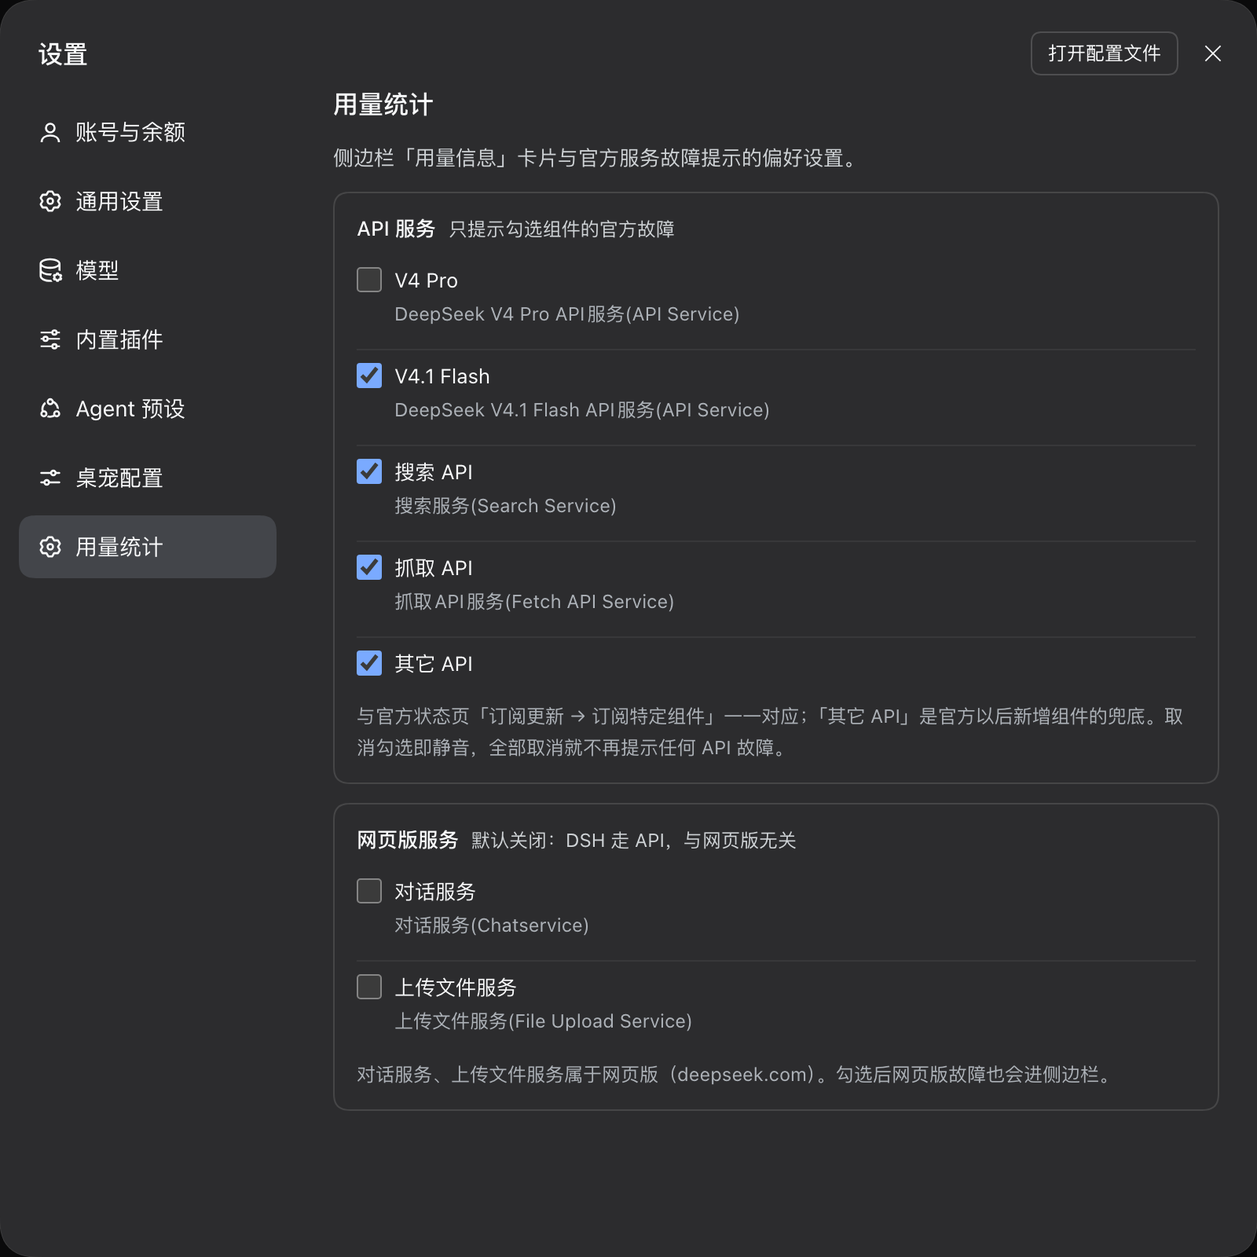
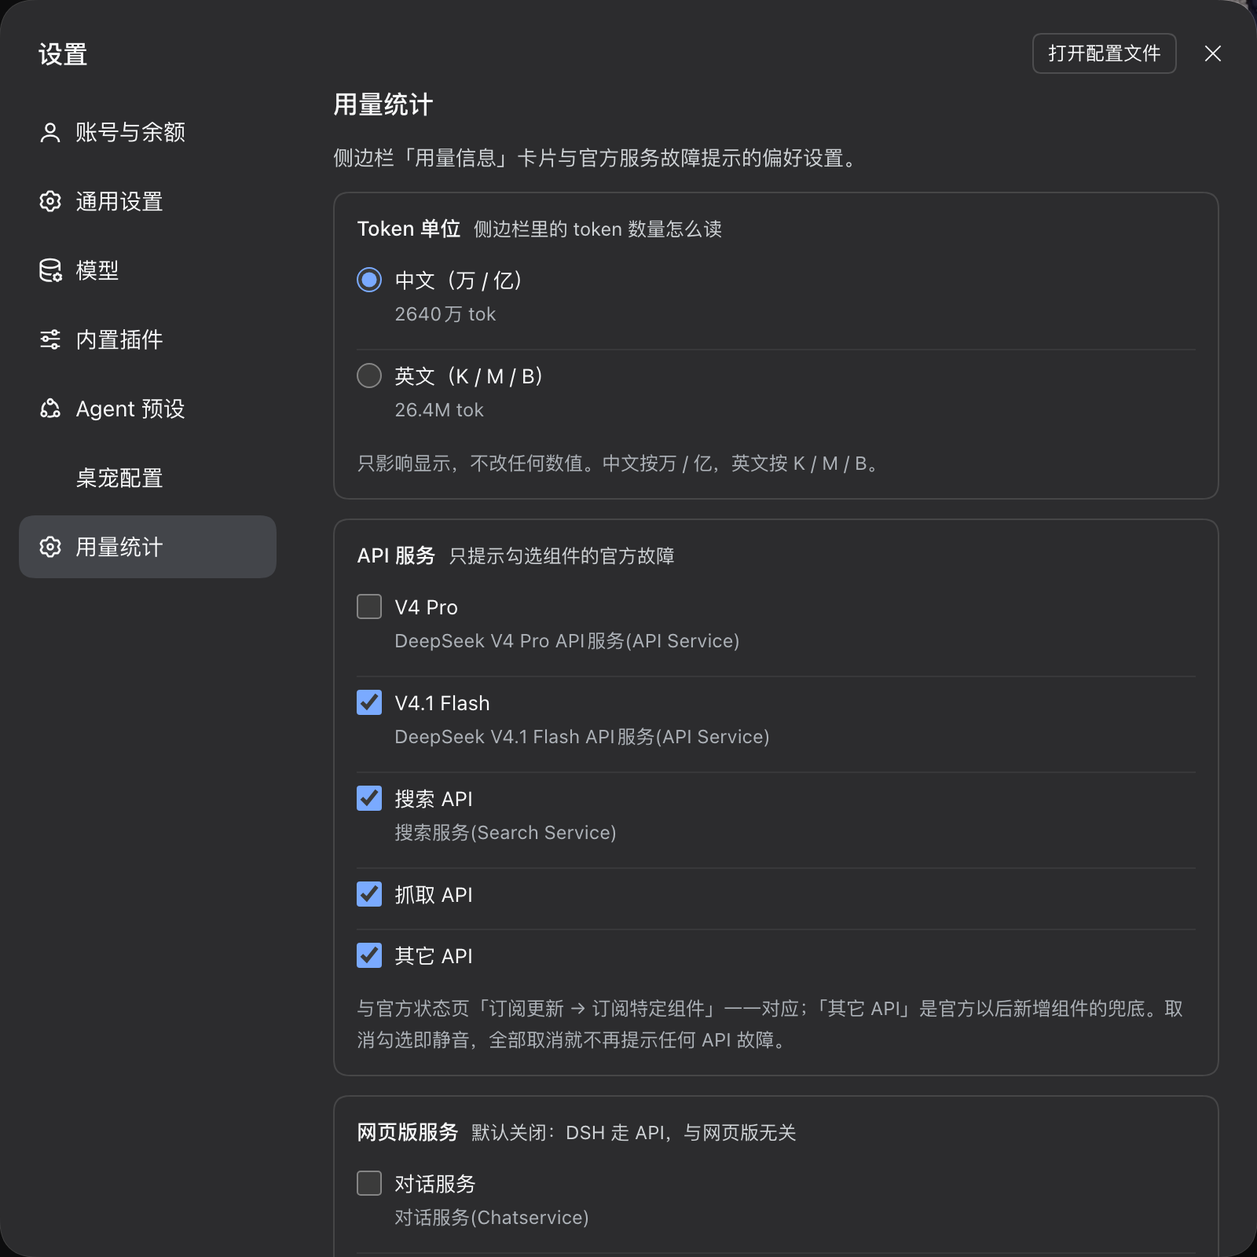
sync: mirror private repo @ d2c5e49

diff --git a/client.js b/client.js
@@ -17,6 +17,14 @@ if (typeof window !== 'undefined' && window.__ModuleLoader__) {
     const UPDATE_BADGE_TEXT = '有新版'
     const UPDATE_BADGE_CLASS = 'dshus-upd-badge'
     const ALERTS_ROUTE = '/api/usage-stats/alerts'
+    const DISPLAY_ROUTE = '/api/usage-stats/display'
+    // 设置页把单位改了 → 侧边栏立刻换，不等下一轮 60s 刷新
+    const DISPLAY_CHANGED_EVENT = 'dshus:display-changed'
+    // 两个单位各自的写法（hint 里用同一个数举例：2640万 = 26.4M）
+    const TOKEN_UNIT_OPTIONS = [
+      { key: 'zh', label: '中文（万 / 亿）', sample: '2640万 tok' },
+      { key: 'en', label: '英文（K / M / B）', sample: '26.4M tok' },
+    ]
     // host 侧还没重启（客户端热更新先到）时 /alerts 会 404 —— 这时列出官方组件但禁用，
     // 让用户看到「重启 dsh web 后生效」，而不是一句莫名的「读取失败」。
     // 顺序与官方「订阅特定组件」一致（api 组在前，网页版在后）。
@@ -32,12 +40,25 @@ if (typeof window !== 'undefined' && window.__ModuleLoader__) {
     // 设置页存完档发这个事件：侧边栏立刻重拉一次状态，不用等下一轮 5 分钟轮询
     const ALERTS_CHANGED_EVENT = 'dshus:alerts-changed'
 
-    function formatCompactTokens(value) {
+    // --- token 数量格式化（回归测试按这两个标记切片，别删这两行注释）------------
+    const DEFAULT_TOKEN_UNIT = 'en' // 老行为：K / M / B
+    // 单位跟设置走（设置 → 用量统计 → Token 单位）：
+    //   英文：1.2K / 26.4M / 1.23B（默认，老行为）
+    //   中文：1.2万 / 2640万 / 1.23亿
+    // 缩写的档位与小数位两边对齐：万以下不缩写；1 万–10 万留 1 位小数，再往上不留
+    // （26.4M = 2640万，四个字读完；英文的 M 段同样只到十位数才留 2 位）。
+    function formatCompactTokens(value, unit = DEFAULT_TOKEN_UNIT) {
+      if (unit === 'zh') {
+        if (value < 10_000) return String(Math.round(value))
+        if (value < 100_000_000) return `${(value / 10_000).toFixed(value < 100_000 ? 1 : 0)}万`
+        return `${(value / 100_000_000).toFixed(2)}亿`
+      }
       if (value < 1_000) return String(Math.round(value))
       if (value < 1_000_000) return `${(value / 1_000).toFixed(value < 10_000 ? 1 : 0)}K`
       if (value < 1_000_000_000) return `${(value / 1_000_000).toFixed(value < 10_000_000 ? 2 : 1)}M`
       return `${(value / 1_000_000_000).toFixed(2)}B`
     }
+    // --- token 数量格式化结束 ---------------------------------------------------
 
     // 与平台页一致：金额去尾（截断）到 2 位小数，而非四舍五入——避免"多 0.01"
     function truncate2(value) {
@@ -211,6 +232,10 @@ if (typeof window !== 'undefined' && window.__ModuleLoader__) {
           display: flex; align-items: center; justify-content: center; padding: 6px 0;
           font-size: 10px; font-variant-numeric: tabular-nums; color: var(--dsw-alias-label-secondary);
           text-decoration: none;
+          /* 收起态只有 35px 宽：中文「4675万」不能在数字和「万」之间断开，否则
+             「Σ / 4675 / 万」竖成三行；keep-all 只禁止这种 CJK 断行，Σ 后的空格仍可断，
+             于是稳定成两行（和英文「Σ / 46.8M」一致）。 */
+          word-break: keep-all;
         }
         /* 收起态有故障：整项从 Σ 摘要换成图标（tooltip 带完整文案） */
         .dshus-rail-alert { border-radius: 4px; padding: 4px 0; font-size: 12px; }
@@ -239,7 +264,8 @@ if (typeof window !== 'undefined' && window.__ModuleLoader__) {
         .dshus-set-carddesc { color: var(--dsw-alias-label-secondary); font-size: 12px; font-weight: 400; }
         .dshus-set-row { display: flex; align-items: flex-start; gap: 8px; padding: 6px 0; cursor: pointer; }
         .dshus-set-row + .dshus-set-row { border-top: 1px solid var(--dsw-alias-border-l1); }
-        .dshus-set-row input[type="checkbox"] { flex: none; width: 16px; height: 16px; margin: 2px 0 0; accent-color: var(--dsw-alias-state-business-primary); cursor: pointer; }
+        .dshus-set-row input[type="checkbox"],
+        .dshus-set-row input[type="radio"] { flex: none; width: 16px; height: 16px; margin: 2px 0 0; accent-color: var(--dsw-alias-state-business-primary); cursor: pointer; }
         .dshus-set-body { display: flex; flex-direction: column; gap: 2px; min-width: 0; }
         .dshus-set-label { font-size: 13px; }
         .dshus-set-hint { color: var(--dsw-alias-label-tertiary); font-size: 12px; overflow: hidden; text-overflow: ellipsis; white-space: nowrap; }
@@ -324,6 +350,25 @@ if (typeof window !== 'undefined' && window.__ModuleLoader__) {
           }
         }, [])
 
+        // token 单位：设置页写 host（~/.dsh/dsh-usage-stats.settings.json 的 display.tokenUnit），
+        // 这里读一次、跟着 DISPLAY_CHANGED_EVENT 换。读不到就按默认英文——与老版本显示一致。
+        const [tokenUnit, setTokenUnit] = React.useState(DEFAULT_TOKEN_UNIT)
+        React.useEffect(() => {
+          let alive = true
+          const load = () => {
+            fetch(DISPLAY_ROUTE, { headers: { Accept: 'application/json' } })
+              .then((response) => (response.ok ? response.json() : null))
+              .then((payload) => {
+                if (!alive || payload === null || typeof payload !== 'object') return
+                setTokenUnit(payload.tokenUnit === 'zh' ? 'zh' : DEFAULT_TOKEN_UNIT)
+              })
+              .catch(() => { /* 读不到就保持默认，不打扰 */ })
+          }
+          load()
+          window.addEventListener(DISPLAY_CHANGED_EVENT, load)
+          return () => { alive = false; window.removeEventListener(DISPLAY_CHANGED_EVENT, load) }
+        }, [])
+
         // severity 只认 error，其余（含字段缺失）一律按 warn 渲染，避免出现没样式的条
         const alertSeverity = alert === null ? null : (alert.severity === 'error' ? 'error' : 'warn')
         const alertIcon = alert === null ? '' : (alertSeverity === 'error' ? '⛔' : '⚠')
@@ -391,11 +436,11 @@ if (typeof window !== 'undefined' && window.__ModuleLoader__) {
 
         const todayLine = React.createElement('div', { className: 'dshus-row' },
           React.createElement('span', { className: 'dshus-label' }, '今日'),
-          React.createElement('span', { className: 'dshus-tok' }, `${formatCompactTokens(data.today.tokens)} tok`),
+          React.createElement('span', { className: 'dshus-tok' }, `${formatCompactTokens(data.today.tokens, tokenUnit)} tok`),
           React.createElement('span', { className: 'dshus-cost' }, formatMoney(data.today.cost, data.currency)))
         const monthLine = React.createElement('div', { className: 'dshus-row' },
           React.createElement('span', { className: 'dshus-label' }, '本月'),
-          React.createElement('span', { className: 'dshus-tok' }, `${formatCompactTokens(data.month.tokens)} tok`),
+          React.createElement('span', { className: 'dshus-tok' }, `${formatCompactTokens(data.month.tokens, tokenUnit)} tok`),
           React.createElement('span', { className: 'dshus-cost' }, formatMoney(data.month.cost, data.currency)))
 
         if (wide) {
@@ -404,8 +449,8 @@ if (typeof window !== 'undefined' && window.__ModuleLoader__) {
         if (railAlert !== null) return railAlert
         return React.createElement('div', {
           className: 'dshus-rail',
-          title: `今日 ${formatCompactTokens(data.today.tokens)} tok · ${formatMoney(data.today.cost, data.currency)}，本月 ${formatCompactTokens(data.month.tokens)} tok`,
-        }, `Σ ${formatCompactTokens(data.today.tokens)}`)
+          title: `今日 ${formatCompactTokens(data.today.tokens, tokenUnit)} tok · ${formatMoney(data.today.cost, data.currency)}，本月 ${formatCompactTokens(data.month.tokens, tokenUnit)} tok`,
+        }, `Σ ${formatCompactTokens(data.today.tokens, tokenUnit)}`)
       }
 
       // ---- 设置页：API 告警组件 ----
@@ -445,6 +490,48 @@ if (typeof window !== 'undefined' && window.__ModuleLoader__) {
           return () => { alive = false }
         }, [])
 
+        // Token 单位：单独一条 /display 路由。host 还是旧进程时它会 404 ——
+        // 与 /alerts 的降级互不牵连（告警设置照常能改），这一项先禁用并说明。
+        const [unit, setUnit] = React.useState({ phase: 'loading', value: DEFAULT_TOKEN_UNIT, error: null })
+        React.useEffect(() => {
+          let alive = true
+          fetch(DISPLAY_ROUTE, { headers: { Accept: 'application/json' } })
+            .then((response) => {
+              if (response.status === 404) return { ok: 'restart-required' }
+              return response.ok ? response.json() : Promise.reject(new Error(String(response.status)))
+            })
+            .then((payload) => {
+              if (!alive) return
+              if (payload && payload.ok === 'restart-required') {
+                setUnit({ phase: 'skew', value: DEFAULT_TOKEN_UNIT, error: null })
+                return
+              }
+              if (!payload || payload.ok !== true) throw new Error('invalid display response')
+              setUnit({ phase: 'ready', value: payload.tokenUnit === 'zh' ? 'zh' : DEFAULT_TOKEN_UNIT, error: null })
+            })
+            .catch(() => { if (alive) setUnit({ phase: 'error', value: DEFAULT_TOKEN_UNIT, error: '读取 Token 单位失败，请稍后重试' }) })
+          return () => { alive = false }
+        }, [])
+
+        const saveUnit = (next) => {
+          // 先本地翻牌（单选框立刻响应），失败再回滚
+          const previous = unit.value
+          setUnit({ phase: 'ready', value: next, error: null })
+          fetch(DISPLAY_ROUTE, {
+            method: 'POST',
+            headers: { 'Content-Type': 'application/json', Accept: 'application/json' },
+            body: JSON.stringify({ tokenUnit: next }),
+          })
+            .then((response) => (response.ok ? response.json() : Promise.reject(new Error(String(response.status)))))
+            .then((payload) => {
+              if (!payload || payload.ok !== true) throw new Error('invalid display response')
+              setUnit({ phase: 'ready', value: payload.tokenUnit === 'zh' ? 'zh' : DEFAULT_TOKEN_UNIT, error: null })
+              // 侧边栏立刻换单位，不等下一轮刷新
+              window.dispatchEvent(new CustomEvent(DISPLAY_CHANGED_EVENT))
+            })
+            .catch(() => setUnit({ phase: 'ready', value: previous, error: '保存失败（设置未生效），请稍后重试' }))
+        }
+
         const save = (nextMuted) => {
           // 先本地翻牌（勾选框立刻响应），失败再回滚提示
           setState((prev) => ({ ...prev, muted: nextMuted, error: null }))
@@ -473,6 +560,30 @@ if (typeof window !== 'undefined' && window.__ModuleLoader__) {
         const children = [React.createElement('h2', { className: 'dshus-set-title', key: 'title' }, '用量统计')]
         children.push(React.createElement('p', { className: 'dshus-set-intro', key: 'intro' },
           '侧边栏「用量信息」卡片与官方服务故障提示的偏好设置。'))
+
+        // 「Token 单位」放最上面：它是这一页里最先要用到、也最常改的一项。
+        const unitRows = TOKEN_UNIT_OPTIONS.map((option) => React.createElement('label', { className: 'dshus-set-row', key: option.key },
+          React.createElement('input', {
+            type: 'radio',
+            name: 'dshus-token-unit',
+            checked: unit.value === option.key,
+            disabled: unit.phase !== 'ready',
+            onChange: unit.phase === 'ready' ? () => saveUnit(option.key) : undefined,
+          }),
+          React.createElement('span', { className: 'dshus-set-body' },
+            React.createElement('span', { className: 'dshus-set-label' }, option.label),
+            React.createElement('span', { className: 'dshus-set-hint' }, option.sample))))
+        children.push(React.createElement('div', { className: 'dshus-set-card', key: 'unit' },
+          React.createElement('div', { className: 'dshus-set-cardhead' },
+            React.createElement('span', null, 'Token 单位'),
+            React.createElement('span', { className: 'dshus-set-carddesc' }, '侧边栏里的 token 数量怎么读')),
+          unitRows,
+          React.createElement('p', { className: 'dshus-set-note' },
+            unit.phase === 'skew'
+              ? '插件已更新，但 Host 还是旧进程（没有 /api/usage-stats/display 路由）：重启 dsh web 后可选。'
+              : unit.error !== null
+                ? unit.error
+                : '只影响显示，不改任何数值。中文按万 / 亿，英文按 K / M / B。')))
 
         const optionRows = (options, disabled) => options.map((option) => {
           const key = String(option.key)

diff --git a/index.js b/index.js
@@ -30,7 +30,8 @@ const QUERY_ROUTE = '/api/usage-stats/query'
 const UPDATE_ROUTE = '/api/usage-stats/update'
 const STATUS_ROUTE = '/api/usage-stats/status'
 const ALERTS_ROUTE = '/api/usage-stats/alerts'
-// 插件自己的设置（当前只有告警静音的组件），与 TOKEN_FILE 分开存：token 是密钥、用户会手改，
+const DISPLAY_ROUTE = '/api/usage-stats/display'
+// 插件自己的设置（告警静音的组件 + token 单位），与 TOKEN_FILE 分开存：token 是密钥、用户会手改，
 // 而设置由设置页写入 —— 混在一个文件里，写设置时失手就会把 token 抹掉。
 const SETTINGS_FILE = join(homedir(), '.dsh', 'dsh-usage-stats.settings.json')
 const CACHE_TTL_MS = 60000
@@ -663,7 +664,9 @@ function alertsOptions(items) {
 }
 
 // ---------------------------------------------------------------------------
-// 告警设置（~/.dsh/dsh-usage-stats.settings.json）
+// 设置（~/.dsh/dsh-usage-stats.settings.json）
+//   一段 alerts：静音的组件；一段 display：token 单位（中文 万/亿 / 英文 K/M/B）。
+//   两段共用一次「读全 + 原子写全」—— 各写各的会把另一段抹掉。
 // ---------------------------------------------------------------------------
 
 /** 只保留已知组件键（手改出错 / 旧版本遗留的未知值一律丢弃）。 */
@@ -678,35 +681,69 @@ function normalizeMuted(value) {
   return out
 }
 
+const DEFAULT_TOKEN_UNIT = 'en'
+const TOKEN_UNITS = ['en', 'zh']
+
+/** 只认 en / zh，其余（含手改成别的词）回默认英文。 */
+function normalizeTokenUnit(value) {
+  return value === 'zh' ? 'zh' : DEFAULT_TOKEN_UNIT
+}
+
 /**
  * 读设置。三种情形刻意区分：
- *   文件不存在 → 默认值（网页版静音，只提示 API）
- *   文件损坏 / 半写入 → **全都提示**（坏配置不该悄悄吞掉告警 —— 少报故障比多报更坏）
- *   正常 → 文件内容（未知键由 normalizeMuted 丢掉）
+ *   文件不存在 → 默认值（网页版静音、只提示 API；token 单位英文）
+ *   文件损坏 / 半写入 → 告警**全都提示**（坏配置不该悄悄吞掉告警 —— 少报故障比多报更坏）；
+ *     单位回默认英文
+ *   正常 → 已知字段归一化（未知键丢弃）
  */
-function readAlertsSettings(file = SETTINGS_FILE) {
+function readSettings(file = SETTINGS_FILE) {
   let text
   try {
     text = readFileSync(file, 'utf8')
   } catch (err) {
-    return { muted: err && err.code === 'ENOENT' ? [...DEFAULT_MUTED] : [] }
+    const missing = err && err.code === 'ENOENT'
+    return { muted: missing ? [...DEFAULT_MUTED] : [], tokenUnit: DEFAULT_TOKEN_UNIT }
   }
   try {
     const json = JSON.parse(text)
-    return { muted: normalizeMuted(json && json.alerts && json.alerts.muted) }
+    return {
+      muted: normalizeMuted(json && json.alerts && json.alerts.muted),
+      tokenUnit: normalizeTokenUnit(json && json.display && json.display.tokenUnit),
+    }
   } catch {
-    return { muted: [] }
+    return { muted: [], tokenUnit: DEFAULT_TOKEN_UNIT }
   }
 }
 
-/** 原子写设置（同目录临时文件 + rename）：半写入的 JSON 会让下次读回默认值。 */
-function writeAlertsSettings(muted, file = SETTINGS_FILE) {
-  const normalized = normalizeMuted(muted)
+/**
+ * 原子写设置（同目录临时文件 + rename）：半写入的 JSON 会让下次读回默认值。
+ * 只传一段时另一段按**磁盘上的当前值**保留（读不全时按默认值）。
+ */
+function writeSettings(next, file = SETTINGS_FILE) {
+  const current = readSettings(file)
+  const muted = normalizeMuted(next.muted === undefined ? current.muted : next.muted)
+  const tokenUnit = normalizeTokenUnit(next.tokenUnit === undefined ? current.tokenUnit : next.tokenUnit)
   mkdirSync(dirname(file), { recursive: true })
   const tmp = `${file}.${process.pid}.tmp`
-  writeFileSync(tmp, `${JSON.stringify({ alerts: { muted: normalized } }, null, 2)}\n`, { mode: 0o600 })
+  writeFileSync(tmp, `${JSON.stringify({ alerts: { muted }, display: { tokenUnit } }, null, 2)}\n`, { mode: 0o600 })
   renameSync(tmp, file)
-  return { muted: normalized }
+  return { muted, tokenUnit }
+}
+
+function readAlertsSettings(file = SETTINGS_FILE) {
+  return { muted: readSettings(file).muted }
+}
+
+function writeAlertsSettings(muted, file = SETTINGS_FILE) {
+  return { muted: writeSettings({ muted }, file).muted }
+}
+
+function readDisplaySettings(file = SETTINGS_FILE) {
+  return { tokenUnit: readSettings(file).tokenUnit }
+}
+
+function writeDisplaySettings(tokenUnit, file = SETTINGS_FILE) {
+  return { tokenUnit: writeSettings({ tokenUnit }, file).tokenUnit }
 }
 
 /** 缓存分片键：静音的组件不同 = 不同的一份状态快照。 */
@@ -970,6 +1007,17 @@ export async function apply(ctx) {
       const saved = writeAlertsSettings(body.muted ?? [])
       return { ok: true, muted: saved.muted }
     }, { methods: ['GET', 'POST'], json: true })
+
+    // 显示设置：token 单位。和 /alerts 用同一个设置文件、同一套原子写；
+    // GET 回当前值，POST 整份覆盖（幂等，便于以后加字段）。
+    route('display', DISPLAY_ROUTE, async ({ method, body }) => {
+      if (method === 'GET') return { ok: true, ...readDisplaySettings() }
+      if (body === null || typeof body !== 'object' || Array.isArray(body)) throw new BadRequest('body must be an object')
+      if (body.tokenUnit !== undefined && !TOKEN_UNITS.includes(body.tokenUnit)) {
+        throw new BadRequest("tokenUnit must be 'en' or 'zh'")
+      }
+      return { ok: true, ...writeDisplaySettings(body.tokenUnit ?? DEFAULT_TOKEN_UNIT) }
+    }, { methods: ['GET', 'POST'], json: true })
   }
 }
 
@@ -991,6 +1039,12 @@ export const __test = {
   normalizeMuted,
   readAlertsSettings,
   writeAlertsSettings,
+  readSettings,
+  writeSettings,
+  readDisplaySettings,
+  writeDisplaySettings,
+  normalizeTokenUnit,
+  DEFAULT_TOKEN_UNIT,
   mutedKeyOf,
   shortStatusLabel,
   statusSeverity,

diff --git a/README.md b/README.md
@@ -50,9 +50,11 @@ dsh plugin --profile web add ./dsh-usage-stats   # 也可以从 GitHub 装：git
 
 **3. 看数据**：侧边栏左下角（设置按钮上方）就是卡片。点标题「用量信息↗」可跳官方用量页看明细。
 
-**4. 选告警组件**（可选）：设置 → 最下面的「用量统计」→ 勾选你关心的组件。
+**4. 设置**（可选）：设置 → 最下面的「用量统计」。最上面是 **Token 单位**，下面按官方组件选告警。
 
-这一页对应官方状态页的「订阅更新 → 订阅特定组件」：
+- **Token 单位**：中文按万 / 亿（`2640万 tok`），英文按 K / M / B（`26.4M tok`）。只影响显示，
+  不改任何数值；默认英文（和老版本一致）。
+- **告警组件**：对应官方状态页的「订阅更新 → 订阅特定组件」：
 
 | 分组 | 组件 |
 |---|---|
@@ -62,16 +64,16 @@ dsh plugin --profile web add ./dsh-usage-stats   # 也可以从 GitHub 装：git
 网页版默认关闭，因为 DSH 走的是 API —— 但想收也可以勾上。取消勾选 = 静音：该组件再出故障时侧边栏
 不提示，别的组件照常提示。
 
-![设置 → 用量统计：按官方组件静音告警](example-settings.png)
+![设置 → 用量统计：Token 单位在最上面，下面按官方组件静音告警](example-settings.png)
 
 选择存在 `~/.dsh/dsh-usage-stats.settings.json`（与 token 文件分开，互不影响）：
 
 ```json
-{ "alerts": { "muted": ["chat", "upload", "pro"] } }
+{ "alerts": { "muted": ["chat", "upload", "pro"] }, "display": { "tokenUnit": "zh" } }
 ```
 
-手改这个文件同样生效（改完刷新页面即可）。没有这个文件时默认静音网页版（`chat` / `upload`）；
-文件坏了会回到「全都提示」，不会把告警静默掉。
+手改这个文件同样生效（改完刷新页面即可）。没有这个文件时默认静音网页版（`chat` / `upload`）、
+单位用英文；文件坏了会回到「全都提示」，不会把告警静默掉。
 
 ## 已知限制 / 注意
 
@@ -99,12 +101,14 @@ dsh plugin --profile web add ./dsh-usage-stats   # 也可以从 GitHub 装：git
 
 技术细节收在这一节：
 
-- 形态：Host 侧注册 `/api/usage-stats/{query,update,status,alerts}` 四个同源路由，客户端只用 React
+- 形态：Host 侧注册 `/api/usage-stats/{query,update,status,alerts,display}` 五个同源路由，客户端只用 React
   渲染侧边栏插槽与设置页插槽，不直连官方接口（status.deepseek.com 没有 CORS 头，RSS 是唯一的机器接口）。
 - 告警组件：官方可订阅组件（`COMPONENT_RULES`）映射到稳定键（`pro`/`flash`/`search`/`fetch`/`chat`/`upload`
   + 兜底 `other`），键不含版本号。`status` 路由按 `alerts` 设置过滤，静音项进缓存键（改设置 = 换一份快照）；
   `alerts` 路由 `GET` 给组件清单（标签取自官方组件名，省掉第二次抓 feed）、`POST` 整份覆盖静音项
-  （原子写、未知键丢弃、坏文件回「全都提示」）。
+  （原子写、未知键丢弃、坏文件回「全都提示」）。`display` 路由管 token 单位（`en` / `zh`），
+  与 `alerts` 共用同一个设置文件：一次读全、原子写全，写一段不会抹掉另一段；单位只影响客户端显示，
+  不进任何缓存键。
 - 失败纪律：拿不到数据就闭嘴 —— 用量拉不到显示「暂不可用」而不是 0（瞬时失败 ≠ token 无效）；
   状态问不到 ≠ 出问题；npm 请求失败不缓存、下次重试但不报错。
 - 外观：颜色一律取主题 token，跟随 DSH 的深色 / 浅色设置，切换即时生效；设置页与官方设置页同宽（720px）。
@@ -116,8 +120,8 @@ dsh plugin --profile web add ./dsh-usage-stats   # 也可以从 GitHub 装：git
   设置触发行，插件没有可注册的 slot，所以按行注入节点（`[class*="triggerRow"]`），并用
   MutationObserver 处理行晚渲染 / React 重建。收起成图标栏时那一行只有 36px（< 120px 判据），
   徽章先撤掉，展开后补回来。
-- 测试：`Scripts/` 下有 DOM 各状态回归、峰谷 29 例、状态恢复滞后 10 例、告警组件与设置 34 例、路由集成 20 例，
-  以及主题对比度与告警布局的真机校验脚本（跑法见脚本头部注释）。
+- 测试：`Scripts/` 下有 DOM 各状态回归 20 例、token 单位格式化 19 例、峰谷 29 例、状态恢复滞后、
+  告警组件与设置读写、路由集成 24 例，以及主题对比度与告警布局的真机校验脚本（跑法见脚本头部注释）。
 
 ## 卸载
 
